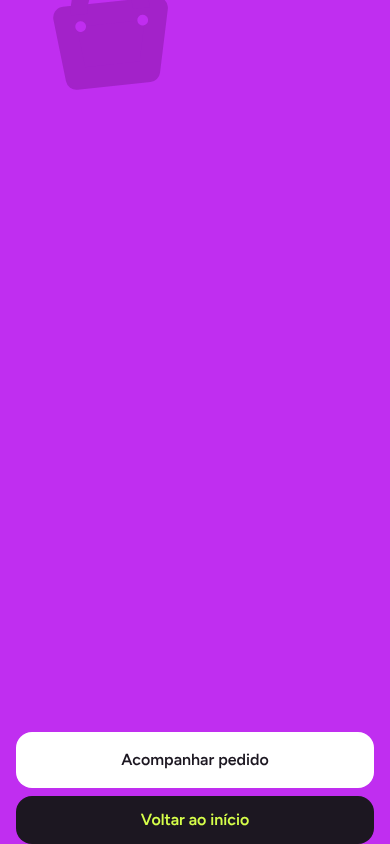
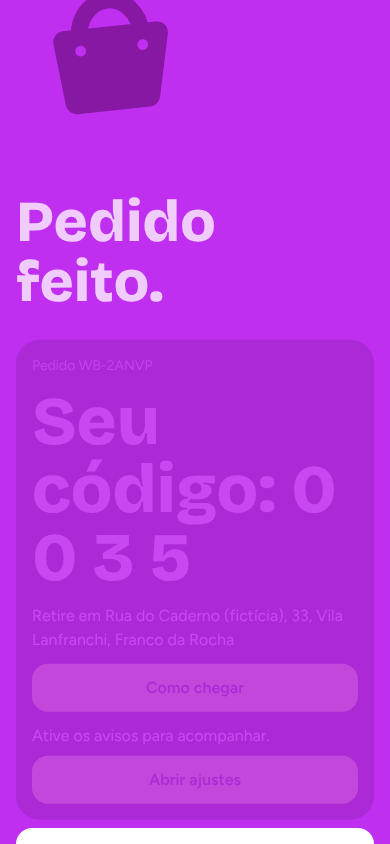
test(mobile): purchase script skips delivery outside logistics hours, card path via pickup; smoke ends at checkout; queue U8.1-U8.8 done
Claude-Session: https://claude.ai/code/session_01HrbjdVRZ9qUnhikBmJZ2HA

diff --git a/docs/gestao/fila-mobile.md b/docs/gestao/fila-mobile.md
@@ -48,15 +48,15 @@ M.7 [ ] **Não é do app do cliente** (2026-11-19, mobile-dev): "Logística" e o
 
 ## Onda 8 UX (product-designer, 2026-11-19; severidade 3 e 4 da revisão final do brief §8)
 
-Origem: `docs/qa/relatorios/heuristica-nielsen.md` (achados H-xx) e `docs/qa/relatorios/usabilidade-4-tarefas.md` (tarefas T1 a T4). Dono de todos: `mobile-dev` (app e `apps/web`), salvo o que diz "backend-dev". Marque `[x]` ao concluir. **U8.1 bloqueia o G4.** Sem redesenho: só o que cabe na v1.0.
+Origem: `docs/qa/relatorios/heuristica-nielsen.md` (achados H-xx) e `docs/qa/relatorios/usabilidade-4-tarefas.md` (tarefas T1 a T4). Dono de todos: `mobile-dev` (app e `apps/web`), salvo o que diz "backend-dev". Marque `[x]` ao concluir. **U8.1 bloqueava o G4 (feito).** Sem redesenho: só o que cabe na v1.0.
 
-U8.1 [ ] **(sev 4, H-01, bloqueia G4)** A Sacola não abre o checkout. `app/(customer)/cart.tsx:174-181`: o ramo `pay` só mostra o aviso "O pagamento fica disponível na próxima etapa do app." e nunca navega. **Correção:** `router.push('/checkout')` no ramo `pay`; apagar `cart.payPending` (`pt-BR.ts:722`) e o comentário desatualizado. **Aceite:** (a) teste Jest em `cart.test.tsx`: sacola pagável + sessão ativa + toque em `cart.submit` chama `router.push('/checkout')`; (b) `scripts/web-smoke.cjs` continua até `checkout.screen` visível; (c) `e2e/comprar-com-pix.yaml` chega a `confirmed.title` com o provedor `fake`; (d) com mudança de preço pendente a navegação continua barrada (teste existente).
-U8.2 [ ] **(sev 3, H-07)** Criar conta ou entrar a partir da Sacola volta à Sacola. `cart.tsx:111` `goLogin` usa `returnTo: '/cart'`. **Correção:** `returnTo: '/checkout'` com `context: 'checkout'` (o checkout já trata visitante e sacola vazia). **Aceite:** teste: toque em `cart.submit` como visitante abre `/signup` com `returnTo=/checkout`; após `signUp` ou login o `router.replace` vai a `/checkout` (um toque a menos na compra do cliente novo); `cart.test.tsx:63` atualizado.
-U8.3 [ ] **(sev 3, H-02)** A 1ª loja não aparece na 1ª tela do Início. **Correção (a validar com o designer no render R2):** trocar as setas "‹ 1 / 3 ›" do `BannerCarousel` por 3 pontos (manter anterior/próximo como ações de acessibilidade do leitor de tela) e compactar o `HomeHero` quando já existe endereço. **Aceite:** em 390x844, sem rolar, o título "Lojas perto de você" e o topo do 1º cartão de loja (≥ 40% da altura do cartão) ficam visíveis; altura do carrossel + controles ≤ 200 px; toque na área do banner continua ≥ 44 pt; testes de `BannerCarousel` e `home` atualizados; captura R2 anexada ao PR.
-U8.4 [ ] **(sev 3, H-05 `[HIPÓTESE: confirmar a resposta da API]`)** Pedir troca só trata o 1º item. `exchange/new.tsx:69` `options.data?.items[0]`. **Correção:** lista de itens elegíveis (radio, 1º marcado; item sem opção de troca aparece cinza com o motivo) antes de "O que aconteceu?"; pedido com 1 item não muda. **Aceite:** teste com pedido de 2 itens: a tela mostra os 2; escolher o 2º envia `orderItemId` do 2º; motivo e novo tamanho zeram ao trocar de item; pedido de 1 item sem seção extra.
-U8.5 [ ] **(sev 3, H-03)** Pedidos não diz o que é o pedido nem quando chega. `features/orders/OrderRow.tsx` ignora `firstItemName` (já em `OrderSummary`) e mostra a data de criação. **Correção (app):** pedido ativo mostra "Caixa de som +1" no lugar da data (data só em "Anteriores"). **Correção (backend-dev, pedido novo):** `OrderSummary.eta { fromAt, toAt }` para a faixa "Chega entre 18:46 e 19:46" na linha; sem o campo a linha não inventa horário. **Aceite:** teste do `OrderRow` com e sem `eta`; nenhum horário calculado no app; copy "Chega entre {start} e {end}" reaproveita `order.arrivesBetween`.
-U8.6 [ ] **(sev 3, H-04)** Cancelamento aceito convive com "A caminho / Passou do horário previsto / Previsto entre". `real-app-pedido-cancelamento-por-atraso.png`. **Correção:** com `cancelRequest.status === 'accepted'` o `OrderHero` mostra "Cancelamento aceito" como título (sem faixa de horário e sem barra de etapas; texto do motoboy devolvendo e do estorno como apoio). PO confirma a copy. **Aceite:** teste do `OrderHero` para pedido em saída com cancelamento aceito, pendente e recusado; nenhuma faixa de horário no aceito; captura anexada.
-U8.7 [ ] **(sev 3, H-20)** Painel do lojista no celular: som e status empurram "Aceitar pedido" para fora da 1ª tela. `apps/web/src/features/orders/orders-chrome.tsx` (`SoundBanner`, `StatusBar`) e `orders-page.tsx`. **Correção:** um só controle de som (ícone + estado "Som ligado/desligado" na barra do topo; "Tocar som de teste" dentro do toque no ícone); `SoundBanner` aparece 1 vez por turno e só em Início e Pedidos; em Pedidos o cartão "Novo" fica no topo e o botão sobe com ele. **Aceite:** em 390x844 com 1 pedido novo, "Aceitar pedido" e "Recusar" visíveis sem rolar e sem a barra inferior por cima; o banner não aparece em Produtos, Trocas, Avaliações e Minha loja; Playwright `390x844` verifica visibilidade do botão (`toBeInViewport`); `sound-banner` continua acessível por leitor de tela (`role="alert"` uma única vez).
-U8.8 [ ] **(sev 3, H-21)** "Conectar depois" na Etapa 4 leva a uma Revisão que bloqueia o envio. `step4.tsx:93-114` x `review.tsx:37-38,91-95`. **Opção A (só web, v1.0):** trocar por "Salvar e continuar depois" que volta ao painel/rascunho com a frase "Sem a conta de recebimento não dá para enviar para análise." **Opção B (backend-dev + PO):** a API aceita o envio sem Mercado Pago e exige a conta só para publicar. O PO escolhe; sem resposta, fazer A. **Aceite:** nenhum botão da Etapa 4 promete adiar o que a Revisão bloqueia; teste Vitest de `step4`; a Revisão sem conta mostra 1 aviso (não dois) apontando "Etapa 4".
+U8.1 [x] **(sev 4, H-01, bloqueia G4)** A Sacola não abre o checkout. `app/(customer)/cart.tsx:174-181`: o ramo `pay` só mostra o aviso "O pagamento fica disponível na próxima etapa do app." e nunca navega. **Correção:** `router.push('/checkout')` no ramo `pay`; apagar `cart.payPending` (`pt-BR.ts:722`) e o comentário desatualizado. **Aceite:** (a) teste Jest em `cart.test.tsx`: sacola pagável + sessão ativa + toque em `cart.submit` chama `router.push('/checkout')`; (b) `scripts/web-smoke.cjs` continua até `checkout.screen` visível; (c) `e2e/comprar-com-pix.yaml` chega a `confirmed.title` com o provedor `fake`; (d) com mudança de preço pendente a navegação continua barrada (teste existente). **Feito (d977ba9, 17228c0).** Causa raiz: o ramo `pay` era um marcador (toast) de quando o checkout ainda não existia; `isCheckoutEnabled()` já era `true` em todos os ambientes (DEC-043) e não há variável que o desligue (documentado em `apps/mobile/README.md`). Prova: `apps/mobile/scripts/web-compra.cjs` (Playwright, app web + API real + PIX `fake`), capturas e resultado em `docs/qa/relatorios/compra-e2e/`; Jest em `cart.test.tsx`; `web-smoke.cjs` agora termina em `checkout.screen`; `comprar-com-pix.yaml` usa `pix.simulate` (Maestro continua sem aparelho: não executado). Correções de bug junto (DEC-069): `useKeepAwake` e `BackHandler` quebravam a tela do PIX no navegador.
+U8.2 [x] **(sev 3, H-07)** Criar conta ou entrar a partir da Sacola volta à Sacola. `cart.tsx:111` `goLogin` usa `returnTo: '/cart'`. **Correção:** `returnTo: '/checkout'` com `context: 'checkout'` (o checkout já trata visitante e sacola vazia). **Aceite:** teste: toque em `cart.submit` como visitante abre `/signup` com `returnTo=/checkout`; após `signUp` ou login o `router.replace` vai a `/checkout` (um toque a menos na compra do cliente novo); `cart.test.tsx:63` atualizado. **Feito (d977ba9).** `returnTo=/checkout`; "Já tenho conta" no cadastro agora leva o `returnTo` ao login (antes caía no Início).
+U8.3 [x] **(sev 3, H-02)** A 1ª loja não aparece na 1ª tela do Início. **Correção (a validar com o designer no render R2):** trocar as setas "‹ 1 / 3 ›" do `BannerCarousel` por 3 pontos (manter anterior/próximo como ações de acessibilidade do leitor de tela) e compactar o `HomeHero` quando já existe endereço. **Aceite:** em 390x844, sem rolar, o título "Lojas perto de você" e o topo do 1º cartão de loja (≥ 40% da altura do cartão) ficam visíveis; altura do carrossel + controles ≤ 200 px; toque na área do banner continua ≥ 44 pt; testes de `BannerCarousel` e `home` atualizados; captura R2 anexada ao PR. **Feito (4f634db).** Pontos no lugar das setas (ações increment/decrement para leitor de tela), hero compacto com endereço (logo, endereço e carrinho na mesma linha; título só para leitor de tela) e espaçamentos menores. Medido em 390x844 no app web: carrossel + pontos 195 px; topo do 1º cartão em y=649, 131 de 274 px (48%) acima da barra de abas. Captura R2: `docs/qa/relatorios/compra-e2e/inicio-r2-390x844.png`. Pendente: o designer validar o hero compacto no render R2.
+U8.4 [x] **(sev 3, H-05 `[HIPÓTESE: confirmar a resposta da API]`)** Pedir troca só trata o 1º item. `exchange/new.tsx:69` `options.data?.items[0]`. **Correção:** lista de itens elegíveis (radio, 1º marcado; item sem opção de troca aparece cinza com o motivo) antes de "O que aconteceu?"; pedido com 1 item não muda. **Aceite:** teste com pedido de 2 itens: a tela mostra os 2; escolher o 2º envia `orderItemId` do 2º; motivo e novo tamanho zeram ao trocar de item; pedido de 1 item sem seção extra. **Feito (61d13dd).** `[HIPÓTESE]` confirmada pelo contrato: `ExchangeOptions.items` já é lista.
+U8.5 [x] **(sev 3, H-03)** Pedidos não diz o que é o pedido nem quando chega. `features/orders/OrderRow.tsx` ignora `firstItemName` (já em `OrderSummary`) e mostra a data de criação. **Correção (app):** pedido ativo mostra "Caixa de som +1" no lugar da data (data só em "Anteriores"). **Correção (backend-dev, pedido novo):** `OrderSummary.eta { fromAt, toAt }` para a faixa "Chega entre 18:46 e 19:46" na linha; sem o campo a linha não inventa horário. **Aceite:** teste do `OrderRow` com e sem `eta`; nenhum horário calculado no app; copy "Chega entre {start} e {end}" reaproveita `order.arrivesBetween`. **Feito no app (0e125fa).** `OrderRow` mostra "Caixa de som +1" nos ativos e lê `OrderSummary.eta` só se vier. **Pendente backend-dev:** o campo `eta { fromAt, toAt }` ainda não existe no contrato (`OrderSummary` do `openapi.yaml`); sem ele a linha não mostra horário.
+U8.6 [x] **(sev 3, H-04)** Cancelamento aceito convive com "A caminho / Passou do horário previsto / Previsto entre". `real-app-pedido-cancelamento-por-atraso.png`. **Correção:** com `cancelRequest.status === 'accepted'` o `OrderHero` mostra "Cancelamento aceito" como título (sem faixa de horário e sem barra de etapas; texto do motoboy devolvendo e do estorno como apoio). PO confirma a copy. **Aceite:** teste do `OrderHero` para pedido em saída com cancelamento aceito, pendente e recusado; nenhuma faixa de horário no aceito; captura anexada. **Feito (1692111).** O status do contrato é `approved` (o texto da fila diz "accepted"). PO ainda confirma a copy: usa "Cancelamento aceito" (`late.approvedTitle`/`cancelRequest.approvedTitle`).
+U8.7 [x] **(sev 3, H-20)** Painel do lojista no celular: som e status empurram "Aceitar pedido" para fora da 1ª tela. `apps/web/src/features/orders/orders-chrome.tsx` (`SoundBanner`, `StatusBar`) e `orders-page.tsx`. **Correção:** um só controle de som (ícone + estado "Som ligado/desligado" na barra do topo; "Tocar som de teste" dentro do toque no ícone); `SoundBanner` aparece 1 vez por turno e só em Início e Pedidos; em Pedidos o cartão "Novo" fica no topo e o botão sobe com ele. **Aceite:** em 390x844 com 1 pedido novo, "Aceitar pedido" e "Recusar" visíveis sem rolar e sem a barra inferior por cima; o banner não aparece em Produtos, Trocas, Avaliações e Minha loja; Playwright `390x844` verifica visibilidade do botão (`toBeInViewport`); `sound-banner` continua acessível por leitor de tela (`role="alert"` uma única vez). **Feito (8dd18fc).** Banner de som some quando há pedido novo (o alerta em tela cheia já traz a faixa com "Ligar som"), só em Início e Pedidos, com "Agora não" para o turno; a barra de status virou um botão único (liga e toca o teste). Playwright 390x844 (`pedidos.e2e.ts`) mede Aceitar/Recusar dentro da tela e acima da barra inferior; capturas em `docs/qa/relatorios/compra-e2e/lojista-pedidos-*.png`.
+U8.8 [x] **(sev 3, H-21)** "Conectar depois" na Etapa 4 leva a uma Revisão que bloqueia o envio. `step4.tsx:93-114` x `review.tsx:37-38,91-95`. **Opção A (só web, v1.0):** trocar por "Salvar e continuar depois" que volta ao painel/rascunho com a frase "Sem a conta de recebimento não dá para enviar para análise." **Opção B (backend-dev + PO):** a API aceita o envio sem Mercado Pago e exige a conta só para publicar. O PO escolhe; sem resposta, fazer A. **Aceite:** nenhum botão da Etapa 4 promete adiar o que a Revisão bloqueia; teste Vitest de `step4`; a Revisão sem conta mostra 1 aviso (não dois) apontando "Etapa 4". **Feito (01d99cd), opção A** (sem resposta do PO). Revisão mostra 1 aviso apontando "Etapa 4".
 
 Sev 2 que cabem junto se a sprint tiver folga (sem bloqueio; detalhe e dono em `heuristica-nielsen.md`): H-06 cortar o "nada é cobrado" repetido na troca; H-08 `allowFontScaling` no horário do Pedido confirmado; H-09 "Em até 3x" lido do servidor; H-10 fallback de imagem com o objeto do kit (não o glifo cinza); H-11 endereço completo dentro do checkout; H-22 cabeçalho compacto no painel do lojista; H-24 erro de leitura em Produtos; H-34 "Conferir tudo" só depois de abrir os documentos.

diff --git a/docs/qa/relatorios/compra-e2e/README.md b/docs/qa/relatorios/compra-e2e/README.md
@@ -1,13 +1,19 @@
 # Compra de ponta a ponta (U8.1), 2026-11-19
 
-Comando: `NODE_PATH=$(npm root -g) node apps/mobile/scripts/web-compra.cjs` (app web via Metro, API real local, provedor `fake`, site na 3001). Viewport 390x844 (viewport, não fullPage).
+Comando: `NODE_PATH=$(npm root -g) node apps/mobile/scripts/web-compra.cjs [entrega-pix|retirada-pix|cartao]` (app web via Metro `pnpm web`, API real local, provedor `fake`, site `apps/web` na 3001; setup em `docs/qa/relatorios/setup-do-zero.md`). Viewport 390x844 (viewport, não fullPage).
 
 | Caminho | Passos provados | Resultado |
 |---|---|---|
-| `entrega-pix` | login (cliente do seed) > loja > produto > Sacola > "Ir para o pagamento" abre o Checkout > endereço > PIX > "Simular pagamento" (servidor aprova) > Pedido confirmado > acompanhar | OK |
+| `entrega-pix` | login (cliente do seed) > loja > produto > Sacola > "Ir para o pagamento" abre o Checkout > endereço > PIX > "Simular pagamento" (o servidor aprova) > Pedido confirmado > acompanhar | OK (capturas `entrega-pix-*`). Depende do horário da logística (BUG-016): fora dele a Sacola só oferece "Escolha como receber" e o script marca PULADO |
 | `retirada-pix` | Início em Retirada > loja > produto > Sacola como visitante > criar conta > volta direto ao Checkout (U8.2) > Retirada > PIX > confirmado com código de 4 dígitos > acompanhar | OK |
-| `cartao` | login > Checkout > Cartão > página segura do site (cartão de teste aprovado) > espera > Pedido confirmado > acompanhar | OK |
+| `cartao` | login > Retirada > Checkout > Cartão > página segura do site (cartão de teste "aprovado") > espera > Pedido confirmado > acompanhar | OK |
 
-Causa do U8.1: o ramo `pay` de `cart.tsx` só mostrava o aviso `cart.payPending`; `isCheckoutEnabled()` já era `true` em todos os ambientes (DEC-043).
+Causa do U8.1: o ramo `pay` de `cart.tsx` só mostrava o aviso `cart.payPending`; `isCheckoutEnabled()` já era `true` em todos os ambientes (DEC-043), então não havia flag a ligar.
 
-Ressalvas: o selo vermelho no canto das capturas é o LogBox do modo dev do react-native-web (aviso `transform-origin` do `react-native-svg`), não aparece em build de loja. O Mercado Pago real não foi exercitado (sem chaves).
+Ressalvas
+- O selo vermelho no canto de algumas capturas é o LogBox do modo dev do react-native-web (aviso `transform-origin` do `react-native-svg`); não existe em build de loja.
+- As imagens do armazenamento local (porta 9000) são bloqueadas pelo navegador (ORB) neste ambiente: cartões e banners aparecem cinza. Não afeta o fluxo.
+- Mercado Pago real, push real e aparelho físico não foram exercitados. O Maestro (`e2e/comprar-com-pix.yaml`) continua sem execução (sem emulador).
+- Os pedidos criados ficam no banco local de desenvolvimento e a sacola do cliente do seed acumula itens entre corridas (o script esvazia a sacola de outra loja quando o app pergunta).
+
+Outras capturas desta onda: `inicio-r2-390x844.png` (U8.3), `lojista-pedidos-*.png` (U8.7: 390x844 com e sem alerta em tela cheia, e 1366x768).
